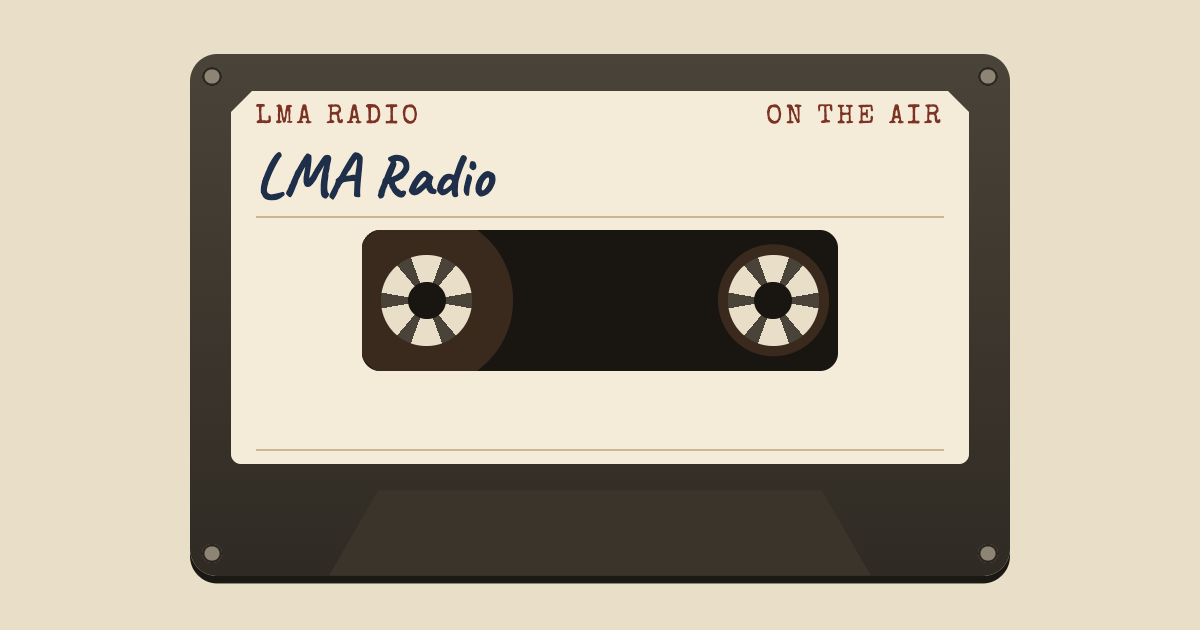
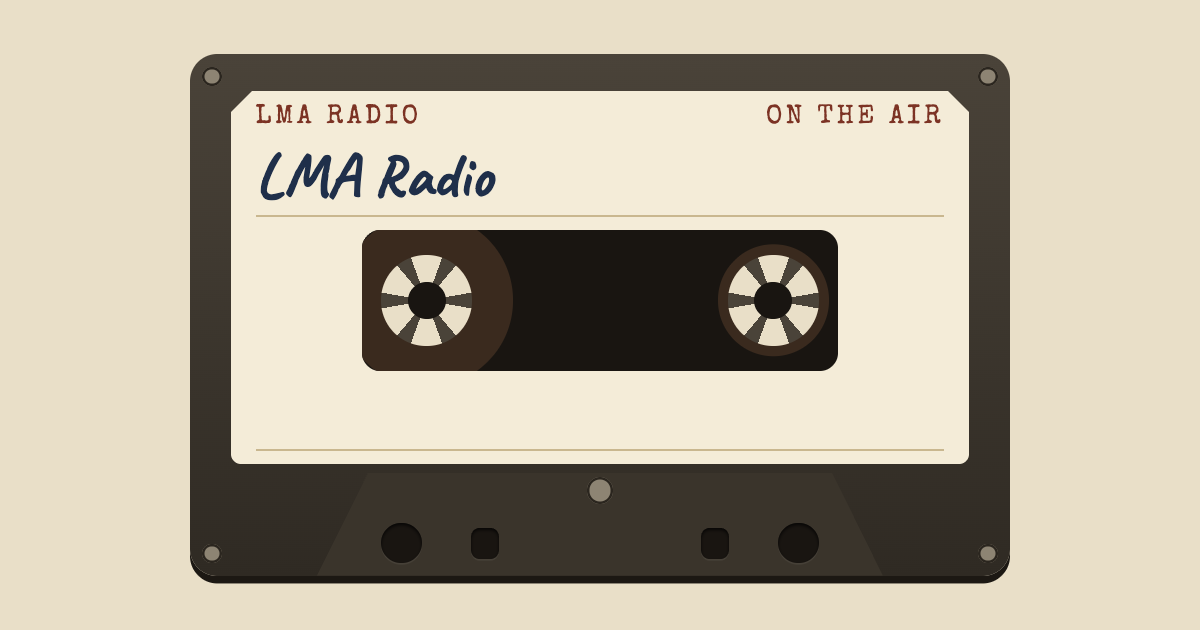
antenna: holes and centre screw along the cassette's bottom edge
Deepen .trap (15.5/69/12.5 cqw), add four holes and a centre screw with
cqw positions and a px/% fallback; pin them at 320/390/1200 px and in the
fallback test; regenerate the art.
Tested: cd antenna && npm test (519) && npm run typecheck && npm run smoke (91)

Claude-Session: https://claude.ai/code/session_01JHQ1oSGCR6cQHtMA5uBS46

diff --git a/antenna/src/pages.ts b/antenna/src/pages.ts
@@ -1,3 +1,3 @@
 // GENERATED by scripts/build-pages.mjs from public/index.html and public/offair.html -- do not edit.
-export const PLAYER_PAGE = "<!doctype html>\n<html lang=\"en\">\n<head>\n<meta charset=\"utf-8\">\n<meta name=\"viewport\" content=\"width=device-width,initial-scale=1,viewport-fit=cover\">\n<title>LMA Radio</title>\n<meta property=\"og:type\" content=\"website\">\n<meta property=\"og:title\" content=\"LMA Radio\">\n<meta property=\"og:description\" content=\"Live concert tapes from the Live Music Archive, around the clock.\">\n<meta property=\"og:image\" content=\"https://listen.lma-radio.com/assets/cassette-og.png\">\n<meta name=\"theme-color\" content=\"#e9dfc8\">\n<meta name=\"apple-mobile-web-app-capable\" content=\"yes\">\n<meta name=\"apple-mobile-web-app-title\" content=\"LMA Radio\">\n<meta name=\"apple-mobile-web-app-status-bar-style\" content=\"default\">\n<link rel=\"manifest\" href=\"assets/radio.webmanifest\">\n<link rel=\"apple-touch-icon\" href=\"assets/icon-180.png\">\n<link rel=\"icon\" href=\"data:,\">\n<link rel=\"stylesheet\" href=\"assets/radio.css\">\n<script src=\"assets/hls.min.js\" defer></script>\n<script type=\"module\" src=\"assets/app.js\"></script>\n</head>\n<body>\n<main class=\"page\">\n  <header class=\"top\">\n    <h1 class=\"brand\">LMA Radio</h1>\n    <p class=\"tag\">Live concert tapes from the Live Music Archive, around the clock.</p>\n  </header>\n\n  <section class=\"band\">\n    <div class=\"cass\">\n      <i class=\"screw s1\"></i><i class=\"screw s2\"></i><i class=\"screw s3\"></i><i class=\"screw s4\"></i>\n      <div class=\"clabel\">\n        <div class=\"ln\"><span>LMA RADIO</span><span id=\"label-status\">ON THE AIR</span></div>\n        <div id=\"label-artist\" class=\"hand h1\">LMA Radio</div>\n        <div class=\"hand h2\"><span id=\"label-where\"></span><span id=\"label-date\"></span></div>\n      </div>\n      <div id=\"hubs\" class=\"window\">\n        <div class=\"pack l\"></div><div class=\"pack r\"></div>\n        <div class=\"hub\"></div><div class=\"hub\"></div>\n      </div>\n      <div class=\"trap\"></div>\n    </div>\n\n    <div class=\"deck\">\n      <div class=\"keys\">\n        <button id=\"play\" class=\"key on\" type=\"button\">Play</button>\n        <button id=\"stop\" class=\"key\" type=\"button\">Stop</button>\n      </div>\n      <div class=\"playing\">\n        <h2 class=\"kick\">Now playing</h2>\n        <p id=\"now\" class=\"np\">LMA Radio</p>\n        <a id=\"now-notes\" class=\"now-notes\" hidden>Show notes</a>\n        <button id=\"retry\" class=\"key retry\" type=\"button\" hidden>Try again</button>\n      </div>\n      <div class=\"tape-log\">\n        <h2 class=\"kick\">Tape log</h2>\n        <ol id=\"tape-log\" class=\"log\"></ol>\n      </div>\n    </div>\n  </section>\n\n  <section class=\"schedule\">\n    <div class=\"sched-head\">\n      <h2 class=\"kick\">Coming up</h2>\n      <p id=\"zone\" class=\"zone\"></p>\n    </div>\n    <p id=\"schedule-note\" class=\"schedule-note\" hidden></p>\n    <div id=\"coming-up\" class=\"tickets\"></div>\n  </section>\n\n  <section class=\"schedule\">\n    <h2 class=\"kick\">Just aired</h2>\n    <div id=\"just-aired\" class=\"tickets\"></div>\n  </section>\n\n  <footer class=\"foot\">\n    <p>Recordings from the <a href=\"https://archive.org/details/etree\" target=\"_blank\" rel=\"noopener\">Live Music Archive</a>.\n       Non-commercial; no ads.</p>\n    <p>Stream URL (VLC, apps): <code id=\"stream-url\"></code></p>\n  </footer>\n\n  <audio id=\"audio\" preload=\"none\"></audio>\n</main>\n</body>\n</html>\n";
+export const PLAYER_PAGE = "<!doctype html>\n<html lang=\"en\">\n<head>\n<meta charset=\"utf-8\">\n<meta name=\"viewport\" content=\"width=device-width,initial-scale=1,viewport-fit=cover\">\n<title>LMA Radio</title>\n<meta property=\"og:type\" content=\"website\">\n<meta property=\"og:title\" content=\"LMA Radio\">\n<meta property=\"og:description\" content=\"Live concert tapes from the Live Music Archive, around the clock.\">\n<meta property=\"og:image\" content=\"https://listen.lma-radio.com/assets/cassette-og.png\">\n<meta name=\"theme-color\" content=\"#e9dfc8\">\n<meta name=\"apple-mobile-web-app-capable\" content=\"yes\">\n<meta name=\"apple-mobile-web-app-title\" content=\"LMA Radio\">\n<meta name=\"apple-mobile-web-app-status-bar-style\" content=\"default\">\n<link rel=\"manifest\" href=\"assets/radio.webmanifest\">\n<link rel=\"apple-touch-icon\" href=\"assets/icon-180.png\">\n<link rel=\"icon\" href=\"data:,\">\n<link rel=\"stylesheet\" href=\"assets/radio.css\">\n<script src=\"assets/hls.min.js\" defer></script>\n<script type=\"module\" src=\"assets/app.js\"></script>\n</head>\n<body>\n<main class=\"page\">\n  <header class=\"top\">\n    <h1 class=\"brand\">LMA Radio</h1>\n    <p class=\"tag\">Live concert tapes from the Live Music Archive, around the clock.</p>\n  </header>\n\n  <section class=\"band\">\n    <div class=\"cass\">\n      <i class=\"screw s1\"></i><i class=\"screw s2\"></i><i class=\"screw s3\"></i><i class=\"screw s4\"></i>\n      <div class=\"clabel\">\n        <div class=\"ln\"><span>LMA RADIO</span><span id=\"label-status\">ON THE AIR</span></div>\n        <div id=\"label-artist\" class=\"hand h1\">LMA Radio</div>\n        <div class=\"hand h2\"><span id=\"label-where\"></span><span id=\"label-date\"></span></div>\n      </div>\n      <div id=\"hubs\" class=\"window\">\n        <div class=\"pack l\"></div><div class=\"pack r\"></div>\n        <div class=\"hub\"></div><div class=\"hub\"></div>\n      </div>\n      <div class=\"trap\"><i class=\"hole h-l\"></i><i class=\"hole sq h-l\"></i><i class=\"screw centre\"></i><i class=\"hole sq h-r\"></i><i class=\"hole h-r\"></i></div>\n    </div>\n\n    <div class=\"deck\">\n      <div class=\"keys\">\n        <button id=\"play\" class=\"key on\" type=\"button\">Play</button>\n        <button id=\"stop\" class=\"key\" type=\"button\">Stop</button>\n      </div>\n      <div class=\"playing\">\n        <h2 class=\"kick\">Now playing</h2>\n        <p id=\"now\" class=\"np\">LMA Radio</p>\n        <a id=\"now-notes\" class=\"now-notes\" hidden>Show notes</a>\n        <button id=\"retry\" class=\"key retry\" type=\"button\" hidden>Try again</button>\n      </div>\n      <div class=\"tape-log\">\n        <h2 class=\"kick\">Tape log</h2>\n        <ol id=\"tape-log\" class=\"log\"></ol>\n      </div>\n    </div>\n  </section>\n\n  <section class=\"schedule\">\n    <div class=\"sched-head\">\n      <h2 class=\"kick\">Coming up</h2>\n      <p id=\"zone\" class=\"zone\"></p>\n    </div>\n    <p id=\"schedule-note\" class=\"schedule-note\" hidden></p>\n    <div id=\"coming-up\" class=\"tickets\"></div>\n  </section>\n\n  <section class=\"schedule\">\n    <h2 class=\"kick\">Just aired</h2>\n    <div id=\"just-aired\" class=\"tickets\"></div>\n  </section>\n\n  <footer class=\"foot\">\n    <p>Recordings from the <a href=\"https://archive.org/details/etree\" target=\"_blank\" rel=\"noopener\">Live Music Archive</a>.\n       Non-commercial; no ads.</p>\n    <p>Stream URL (VLC, apps): <code id=\"stream-url\"></code></p>\n  </footer>\n\n  <audio id=\"audio\" preload=\"none\"></audio>\n</main>\n</body>\n</html>\n";
 export const OFFAIR_PAGE = "<!doctype html>\n<html lang=\"en\">\n<head>\n<meta charset=\"utf-8\">\n<meta name=\"viewport\" content=\"width=device-width,initial-scale=1,viewport-fit=cover\">\n<meta http-equiv=\"refresh\" content=\"300\">\n<meta name=\"theme-color\" content=\"#e9dfc8\">\n<title>Off the air · LMA Radio</title>\n<style>\nhtml{background:#e9dfc8;color:#2c251d}\nbody{margin:0;min-height:100vh;display:flex;align-items:center;justify-content:center;padding:24px;box-sizing:border-box;font-family:Georgia,\"Times New Roman\",serif;line-height:1.5}\nmain{max-width:30rem;width:100%;background:#f7efdc;border:1px solid #a8987a;border-radius:6px;padding:28px 24px;text-align:center;overflow-wrap:anywhere}\nh1{margin:0 0 12px;font-family:\"Courier New\",Courier,monospace;font-size:1.4rem;letter-spacing:.12em;text-transform:uppercase;color:#4a4339}\n.notice{margin:0 0 16px;font-size:1.25rem;color:#7c3324}\np{margin:0 0 12px}\na{color:#3f6a6a}\n.credit{margin:16px 0 0;font-size:.9rem;color:#4a4339}\n</style>\n</head>\n<body>\n<main>\n  <h1>LMA Radio</h1>\n  <p class=\"notice\">The station is off the air.</p>\n  <p><a href=\"/\">Try again</a></p>\n  <p class=\"credit\">Recordings from the <a href=\"https://archive.org/details/etree\">Live Music Archive</a>.</p>\n</main>\n</body>\n</html>\n";

diff --git a/antenna/public/assets/radio.css b/antenna/public/assets/radio.css
@@ -201,11 +201,38 @@ a { color: inherit; }
 .trap {
   position: absolute;
   bottom: 0;
-  left: 17cqw;
-  width: 66cqw;
-  height: 10.4cqw;
+  left: 15.5cqw;
+  width: 69cqw;
+  height: 12.5cqw;
   background: #3a342b;
   clip-path: polygon(9% 0, 91% 0, 100% 100%, 0 100%);
+}
+/* The holes in the shell's bottom edge, and its centre screw. Positions are the trapezoid's own:
+   the shell's centre is 34.5cqw in, the row's centre line 8.56cqw down. */
+.trap i { position: absolute; background: #191511; }
+.trap .hole {
+  top: 6.11cqw;
+  width: 4.9cqw;
+  height: 4.9cqw;
+  border-radius: 50%;
+  box-shadow: inset 0 0.25cqw 0.4cqw rgba(0, 0, 0, 0.75), 0 0.2cqw 0 rgba(255, 255, 255, 0.06);
+}
+.trap .hole.sq {
+  top: 6.66cqw;
+  width: 3.4cqw;
+  height: 3.8cqw;
+  border-radius: 30%;
+}
+.trap .h-l { left: 7.85cqw; }
+.trap .h-r { left: 56.25cqw; }
+.trap .sq.h-l { left: 18.8cqw; }
+.trap .sq.h-r { left: 46.8cqw; }
+.trap .screw.centre {
+  top: 0.54cqw;
+  left: 32.9cqw;
+  width: 3.2cqw;
+  height: 3.2cqw;
+  background: #8d8473;
 }
 
 /* The tape-deck keys. */
@@ -499,5 +526,12 @@ a { color: inherit; }
   .pack.l { left: -4.6%; width: 36%; aspect-ratio: 1; }
   .pack.r { right: 1.8%; width: 23.4%; aspect-ratio: 1; }
   .hub { width: 20.6%; aspect-ratio: 1; }
-  .trap { left: 17%; width: 66%; height: 16%; }
+  .trap { left: 15.5%; width: 69%; height: 19.7%; }
+  .trap .hole { width: 16px; height: 16px; top: calc(68.5% - 8px); }
+  .trap .hole.sq { width: 11px; height: 12.5px; top: calc(68.5% - 6.25px); }
+  .trap .h-l { left: calc(14.9% - 8px); }
+  .trap .h-r { left: calc(85.1% - 8px); }
+  .trap .sq.h-l { left: calc(29.7% - 5.5px); }
+  .trap .sq.h-r { left: calc(70.3% - 5.5px); }
+  .trap .screw.centre { width: 10px; height: 10px; top: calc(17.1% - 5px); left: calc(50% - 5px); }
 }

diff --git a/antenna/public/index.html b/antenna/public/index.html
@@ -38,7 +38,7 @@
         <div class="pack l"></div><div class="pack r"></div>
         <div class="hub"></div><div class="hub"></div>
       </div>
-      <div class="trap"></div>
+      <div class="trap"><i class="hole h-l"></i><i class="hole sq h-l"></i><i class="screw centre"></i><i class="hole sq h-r"></i><i class="hole h-r"></i></div>
     </div>
 
     <div class="deck">

diff --git a/docs/superpowers/specs/2026-11-01-player-design.md b/docs/superpowers/specs/2026-11-01-player-design.md
@@ -85,7 +85,7 @@ judges against the mockups; exact sizes are the builder's.
   way, the date stays). The hubs turn only while audio is playing, and not at all
   under `prefers-reduced-motion`. With nothing on air the label carries the
   station name. It keeps a real cassette's 100.4 x 63.8 proportions at every width,
-  with the paper wrapping the window, and the hubs about the middle of the shell's
+  with the paper wrapping the window, four holes and a centre screw along the bottom edge, and the hubs about the middle of the shell's
   height, 42.5 mm apart.
   The cassette's scaling uses container units (iOS 16, Chrome 105, Firefox 110); older browsers get a plain-sized fallback.
 - **Play and Stop keys,** styled as tape-deck keys. Play is the large one. Both
